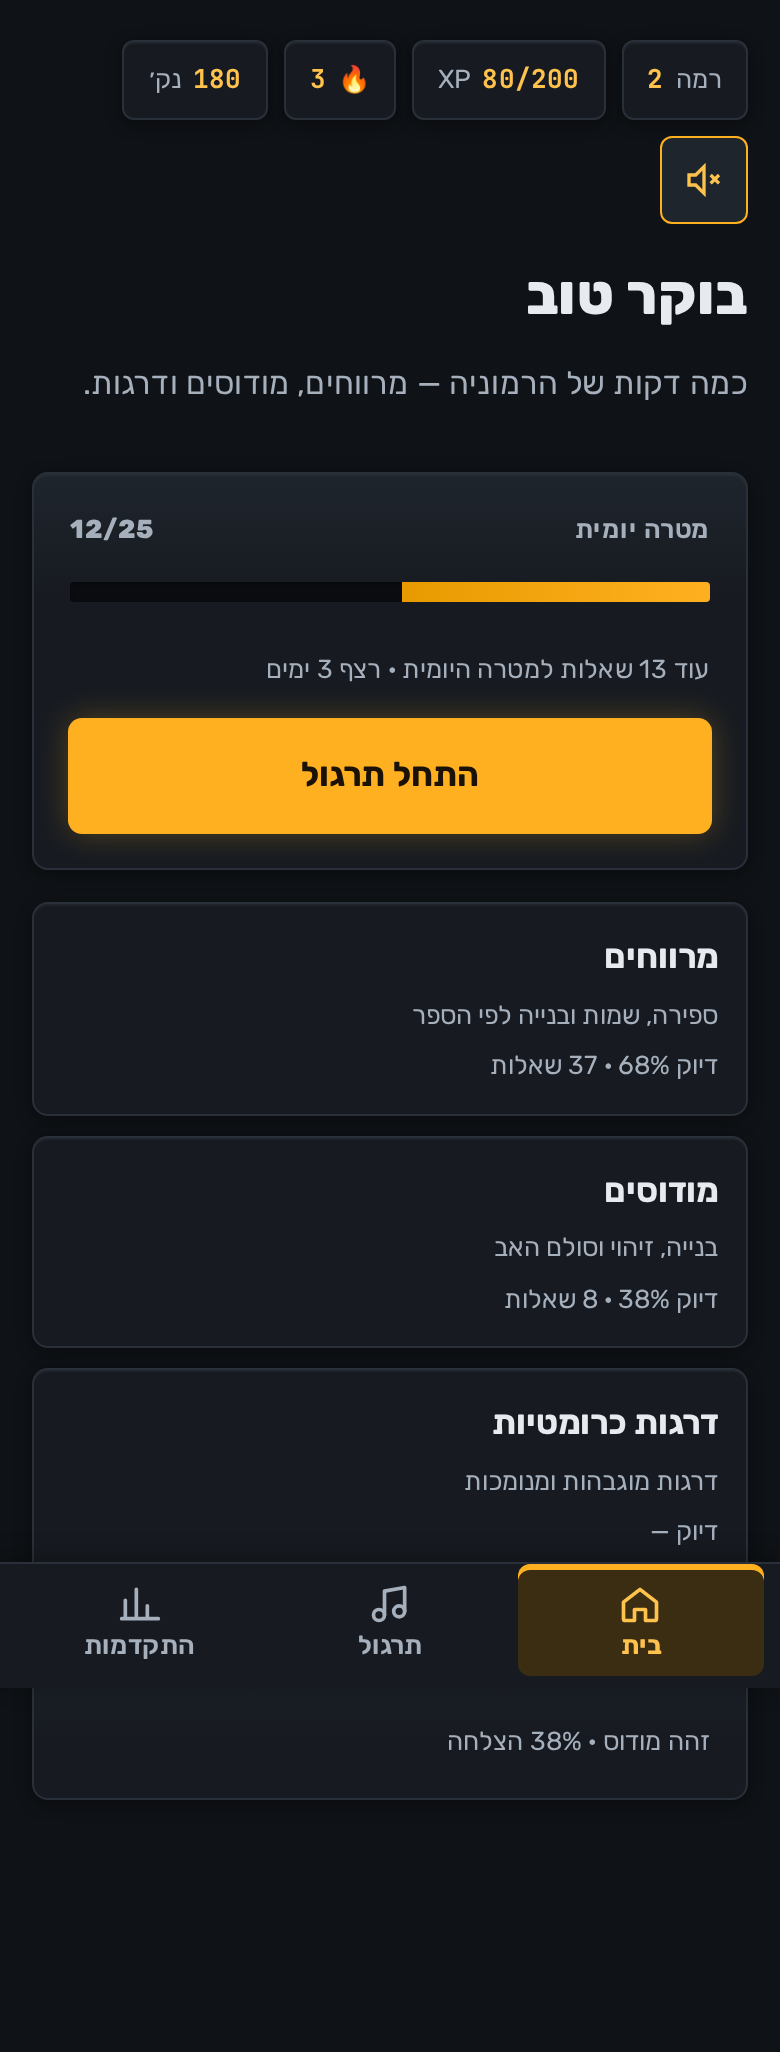
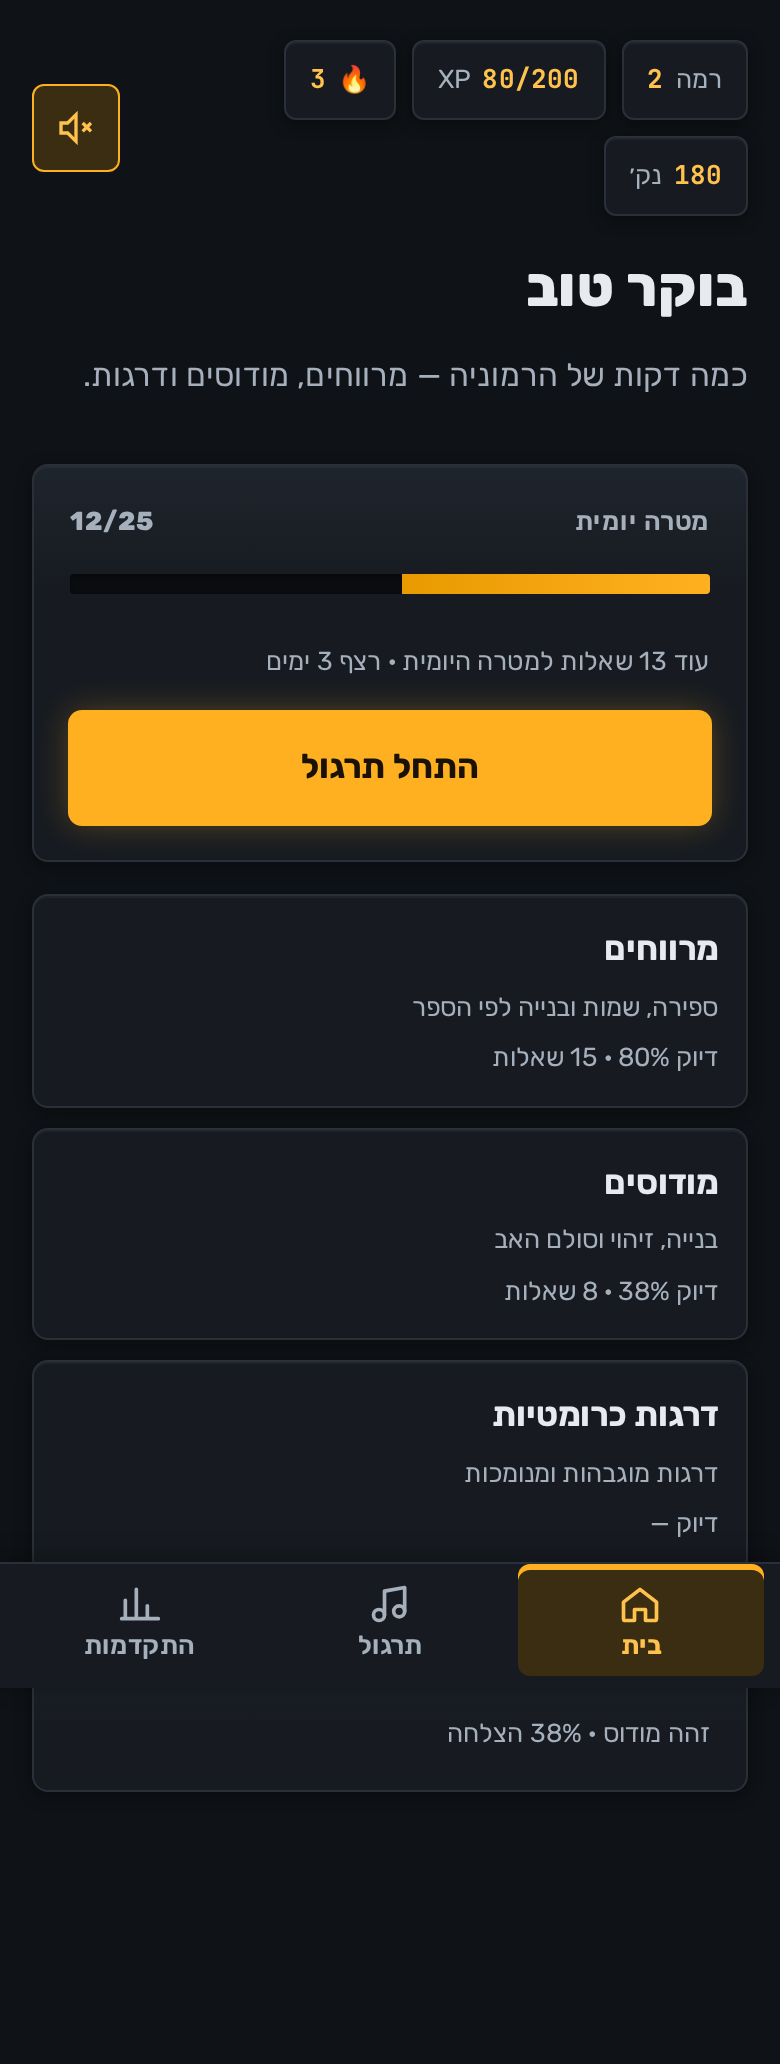
Sync Harmona XP/streak across devices; fix confetti and nav
Add merge-safe Firestore game fields (points, streak, days, log),
update rules, clear celebrations on route change, tidy mute/HUD and
fixed bottom nav. Client falls back to classic fields if rules lag.

diff --git a/index.html b/index.html
@@ -522,14 +522,16 @@ td.num, td:has(.n) {
 }
 
 /* ---- Harmona game layer (console dark) ---- */
-.app-shell { min-height: 100vh; padding-bottom: calc(78px + env(safe-area-inset-bottom, 0px)); }
+.app-shell { min-height: 100vh; padding-bottom: calc(88px + env(safe-area-inset-bottom, 0px)); box-sizing: border-box; }
 .screen[hidden] { display: none !important; }
 .side {
-  position: fixed; inset: auto 0 0 0; z-index: 40;
+  position: fixed; left: 0; right: 0; bottom: 0; z-index: 40;
   display: flex; flex-direction: column; align-items: stretch;
   padding: 0 8px calc(6px + env(safe-area-inset-bottom, 0px));
   background: var(--card); border-top: 1px solid var(--line);
   box-shadow: 0 -2px 12px rgba(0,0,0,.3);
+  /* keep above iOS home indicator / browser chrome */
+  padding-bottom: max(6px, env(safe-area-inset-bottom, 0px));
 }
 .nav {
   display: flex; justify-content: space-around; align-items: stretch; gap: 2px;
@@ -545,8 +547,10 @@ td.num, td:has(.n) {
 .nav-i.on { color: var(--accent-t); background: var(--accent-soft); font-weight: 700; box-shadow: inset 0 3px 0 var(--accent); }
 .nav-i:hover { color: var(--text); }
 .hud {
-  display: flex; flex-wrap: wrap; gap: 8px; align-items: center; margin-bottom: 4px;
+  display: flex; flex-wrap: nowrap; gap: 8px; align-items: center; justify-content: space-between;
+  margin-bottom: 4px; width: 100%;
 }
+.hud-stats { display: flex; flex-wrap: wrap; gap: 8px; align-items: center; min-width: 0; flex: 1; }
 .hud-chip {
   display: inline-flex; align-items: center; gap: 6px; min-height: 40px; padding: 4px 12px;
   border-radius: 6px; background: var(--card); border: 1px solid var(--line); font-size: 13px;
@@ -556,8 +560,9 @@ td.num, td:has(.n) {
 .mute-btn {
   width: 44px; height: 44px; border-radius: 6px; border: 1px solid var(--line2);
   background: var(--card2); color: var(--muted-t); display: grid; place-items: center; cursor: pointer;
+  flex: none; margin-inline-start: auto;
 }
-.mute-btn.on { color: var(--accent-t); border-color: var(--accent); }
+.mute-btn.on { color: var(--accent-t); border-color: var(--accent); background: var(--accent-soft); }
 .combo {
   display: flex; align-items: center; gap: 10px; align-self: center;
   min-height: 40px; padding: 4px 14px; border: 1px solid var(--line); border-radius: 6px;
@@ -1021,7 +1026,7 @@ td.num, td:has(.n) {
     const rb = $('reset');
     if (rb) rb.onclick = () => {
       $('resetwrap').innerHTML = `למחוק את כל ההתקדמות? <button class="linkbtn" id="rs-yes">כן, למחוק</button> · <button class="linkbtn" id="rs-no">ביטול</button>`;
-      $('rs-yes').onclick = () => { st.stats = {}; if (sync.onReset) sync.onReset(); save(); renderTypes(); renderStats(); };
+      $('rs-yes').onclick = () => { st.stats = {}; st.points = 0; st.streak = { current: 0, best: 0, lastDay: null, freezes: 1, freezeWeek: null }; st.days = {}; st.log = []; st.run = 0; st.session = null; if (sync.onReset) sync.onReset(); save(); renderTypes(); renderStats(); if (window.HPGame) { HPGame.refreshHud(); } };
       $('rs-no').onclick = renderStats;
     };
   }
@@ -1227,6 +1232,35 @@ function applyCloud() {
 
 function prefs() { const s = hp.st; return { topic: s.topic, type: s.type, level: s.level }; }
 
+function gamePayload() {
+  const C = window.HP && HP.core;
+  if (!C) return null;
+  return C.gameSnapshot(hp.st);
+}
+
+function mergeGameFromCloud(d) {
+  const C = window.HP && HP.core;
+  if (!C || !d) return;
+  const merged = C.mergeGame(hp.st, {
+    points: d.points,
+    streak: d.streak,
+    days: d.days,
+    log: d.log,
+  });
+  hp.st.points = merged.points;
+  hp.st.streak = merged.streak;
+  hp.st.days = merged.days;
+  hp.st.log = merged.log;
+  hp.persist();
+  if (window.HPGame) {
+    if (HPGame.refreshHud) HPGame.refreshHud();
+    if (HPGame.renderHome && location.hash.replace(/^#/, '') === 'home') HPGame.renderHome();
+    if (HPGame.renderProgress && location.hash.replace(/^#/, '') === 'progress') HPGame.renderProgress();
+  }
+}
+
+let gameSyncEnabled = true; /* flips false if rules reject game fields */
+
 function schedule(ms = 800) { clearTimeout(timer); timer = setTimeout(flush, ms); }
 function flush() {
   if (!user || !prefsLoaded) return Promise.resolve();
@@ -1237,13 +1271,33 @@ async function doFlush() {
   const uidAtStart = user.uid, genAtStart = gen;
   try {
     if (meta.reset) {
-      await setDoc(ref, { stats: {}, updated: serverTimestamp() }, { mergeFields: ['stats', 'updated'] });
+      const wipe = { stats: {}, updated: serverTimestamp() };
+      if (gameSyncEnabled) Object.assign(wipe, { points: 0, streak: { current: 0, best: 0, lastDay: null, freezes: 1, freezeWeek: null }, days: {}, log: [] });
+      try {
+        await setDoc(ref, wipe, { mergeFields: Object.keys(wipe) });
+      } catch (e) {
+        if (e && (e.code === 'permission-denied' || String(e.message || '').includes('permission'))) {
+          gameSyncEnabled = false;
+          await setDoc(ref, { stats: {}, updated: serverTimestamp() }, { mergeFields: ['stats', 'updated'] });
+        } else throw e;
+      }
       meta.reset = false; saveMeta();
     }
     inflight = JSON.parse(JSON.stringify(meta.pending));
     const stats = {};
     for (const [id, s] of Object.entries(inflight)) stats[id] = { r: increment(s.r), t: increment(s.t) };
-    await setDoc(ref, { ...prefs(), stats, updated: serverTimestamp() }, { merge: true });
+    const base = { ...prefs(), stats, updated: serverTimestamp() };
+    const game = gameSyncEnabled ? gamePayload() : null;
+    const payload = game ? { ...base, ...game } : base;
+    try {
+      await setDoc(ref, payload, { merge: true });
+    } catch (e) {
+      /* Rules not yet updated: keep syncing classic fields only, silently. */
+      if (game && e && (e.code === 'permission-denied' || String(e.message || '').includes('permission'))) {
+        gameSyncEnabled = false;
+        await setDoc(ref, base, { merge: true });
+      } else throw e;
+    }
     if (user && user.uid === uidAtStart && gen === genAtStart) { meta.pending = add(meta.pending, inflight, -1);
       for (const [id, s] of Object.entries(meta.pending)) if (!s.r && !s.t) delete meta.pending[id];
       saveMeta(); }
@@ -1295,7 +1349,11 @@ async function doSignOut() {
   await flush(); await flush();
   // progress lives in the account now; this browser goes back to a clean local state
   meta = { uid: null, pending: {}, reset: false }; saveMeta();
-  hp.st.stats = {}; hp.persist();
+  hp.st.stats = {};
+  hp.st.points = 0;
+  hp.st.streak = { current: 0, best: 0, lastDay: null, freezes: 1, freezeWeek: null };
+  hp.st.days = {}; hp.st.log = []; hp.st.run = 0; hp.st.session = null;
+  hp.persist();
   await signOut(auth);
 }
 
@@ -1314,13 +1372,19 @@ onAuthStateChanged(auth, u => {
   render();
   unsub = onSnapshot(ref, snap => {
     const d = snap.data();
-    cloud = d ? { stats: d.stats || {} } : null;
+    cloud = d ? { stats: d.stats || {}, points: d.points, streak: d.streak, days: d.days, log: d.log } : null;
     if (!prefsLoaded) {
       prefsLoaded = true;
       if (d && d.topic) { const s = hp.st; s.topic = d.topic; s.type = Object.assign({}, s.type, d.type || {}); if (d.level) s.level = d.level; }
-      applyCloud(); hp.renderAll();
+      applyCloud();
+      mergeGameFromCloud(d);
+      hp.renderAll();
       schedule(0);
-    } else { applyCloud(); hp.refresh(); }
+    } else {
+      applyCloud();
+      mergeGameFromCloud(d);
+      hp.refresh();
+    }
   }, e => console.warn('sync read failed', e));
 });
 render();

diff --git a/js/game-core.js b/js/game-core.js
@@ -172,7 +172,7 @@
       runBest: s.runBest | 0,
     };
     st.log.push(entry);
-    if (st.log.length > 100) st.log = st.log.slice(-100);
+    if (st.log.length > CORE.LOG_CAP) st.log = st.log.slice(-CORE.LOG_CAP);
     st.session = null;
     return entry;
   };
@@ -192,6 +192,91 @@
     const goal = CORE.POINTS.dailyGoal;
     return { answered: d.answered | 0, correct: d.correct | 0, points: d.points | 0, goal: goal, done: (d.answered | 0) >= goal };
   };
+
+
+  CORE.LOG_CAP = 40;
+  CORE.DAYS_CAP = 60; /* keep last ~2 months of day rows */
+
+  CORE.mergeStreak = function (a, b) {
+    a = CORE.normStreak(a); b = CORE.normStreak(b);
+    const out = CORE.normStreak(null);
+    out.best = Math.max(a.best, b.best);
+    /* prefer the side that practiced more recently */
+    if (!a.lastDay) return Object.assign(out, { current: b.current, lastDay: b.lastDay, freezes: b.freezes, freezeWeek: b.freezeWeek });
+    if (!b.lastDay) return Object.assign(out, { current: a.current, lastDay: a.lastDay, freezes: a.freezes, freezeWeek: a.freezeWeek });
+    const cmp = CORE.dayDiff(a.lastDay, b.lastDay);
+    const newer = cmp > 0 ? b : cmp < 0 ? a : (a.current >= b.current ? a : b);
+    const older = newer === a ? b : a;
+    out.current = newer.current;
+    out.lastDay = newer.lastDay;
+    out.freezes = Math.max(a.freezes, b.freezes);
+    out.freezeWeek = newer.freezeWeek || older.freezeWeek;
+    if (out.current > out.best) out.best = out.current;
+    return out;
+  };
+
+  CORE.mergeDays = function (a, b) {
+    const out = {};
+    const keys = new Set([].concat(Object.keys(a || {}), Object.keys(b || {})));
+    keys.forEach(function (k) {
+      const x = (a && a[k]) || {}, y = (b && b[k]) || {};
+      out[k] = {
+        answered: Math.max(x.answered | 0, y.answered | 0),
+        correct: Math.max(x.correct | 0, y.correct | 0),
+        points: Math.max(x.points | 0, y.points | 0),
+      };
+    });
+    /* cap by newest ymd */
+    const sorted = Object.keys(out).sort();
+    if (sorted.length > CORE.DAYS_CAP) {
+      sorted.slice(0, sorted.length - CORE.DAYS_CAP).forEach(function (k) { delete out[k]; });
+    }
+    return out;
+  };
+
+  CORE.mergeLog = function (a, b) {
+    const map = new Map();
+    function key(e) { return String(e.ts) + '|' + (e.topic || '') + '|' + (e.n | 0) + '|' + (e.ok | 0); }
+    [].concat(a || [], b || []).forEach(function (e) {
+      if (!e || e.ts == null) return;
+      const k = key(e);
+      const prev = map.get(k);
+      if (!prev || (e.points | 0) > (prev.points | 0)) map.set(k, {
+        ts: e.ts, topic: e.topic, n: e.n | 0, ok: e.ok | 0,
+        points: e.points | 0, bonus: e.bonus | 0, runBest: e.runBest | 0,
+      });
+    });
+    return Array.from(map.values()).sort(function (x, y) { return x.ts - y.ts; }).slice(-CORE.LOG_CAP);
+  };
+
+  /* Merge cloud game snapshot into local state. Never decreases points / best streak. */
+  CORE.mergeGame = function (local, cloud) {
+    const L = CORE.migrateState(local || {});
+    if (!cloud) return L;
+    L.points = Math.max(L.points | 0, cloud.points | 0);
+    L.streak = CORE.mergeStreak(L.streak, cloud.streak);
+    L.days = CORE.mergeDays(L.days, cloud.days);
+    L.log = CORE.mergeLog(L.log, cloud.log);
+    return L;
+  };
+
+  /* Snapshot of syncable game fields (small). */
+  CORE.gameSnapshot = function (st) {
+    const s = CORE.migrateState(st || {});
+    return {
+      points: s.points | 0,
+      streak: {
+        current: s.streak.current | 0,
+        best: s.streak.best | 0,
+        lastDay: s.streak.lastDay || null,
+        freezes: s.streak.freezes | 0,
+        freezeWeek: s.streak.freezeWeek || null,
+      },
+      days: CORE.mergeDays(s.days, {}),
+      log: CORE.mergeLog(s.log, []),
+    };
+  };
+
 
   if (typeof module !== 'undefined' && module.exports) module.exports = CORE;
 })(typeof window !== 'undefined' ? window : globalThis);

diff --git a/tests/game-sync.test.js b/tests/game-sync.test.js
@@ -1,0 +1,72 @@
+const C = require('../js/game-core.js');
+let fails = 0;
+function ok(cond, msg) { if (cond) console.log('ok  ', msg); else { console.log('FAIL', msg); fails++; } }
+
+/* points: take max */
+{
+  const m = C.mergeGame({ points: 50, stats: {} }, { points: 80 });
+  ok(m.points === 80, 'points max cloud');
+  const m2 = C.mergeGame({ points: 120, stats: {} }, { points: 80 });
+  ok(m2.points === 120, 'points max local');
+}
+
+/* streak: newer lastDay wins current; best is max */
+{
+  const m = C.mergeGame(
+    { streak: { current: 2, best: 4, lastDay: '2026-11-07', freezes: 0, freezeWeek: '2026-W45' }, stats: {} },
+    { streak: { current: 5, best: 5, lastDay: '2026-11-09', freezes: 1, freezeWeek: '2026-W46' } }
+  );
+  ok(m.streak.current === 5 && m.streak.lastDay === '2026-11-09', 'streak prefers newer day');
+  ok(m.streak.best === 5, 'streak best is max');
+  ok(m.streak.freezes === 1, 'freezes max');
+}
+
+/* days: per-day max union */
+{
+  const m = C.mergeGame(
+    { days: { '2026-11-08': { answered: 10, correct: 7, points: 70 }, '2026-11-09': { answered: 3, correct: 2, points: 20 } }, stats: {} },
+    { days: { '2026-11-09': { answered: 12, correct: 9, points: 100 }, '2026-11-07': { answered: 5, correct: 5, points: 50 } } }
+  );
+  ok(m.days['2026-11-09'].answered === 12 && m.days['2026-11-09'].correct === 9, 'day max answered/correct');
+  ok(m.days['2026-11-08'].answered === 10, 'keeps local-only day');
+  ok(m.days['2026-11-07'].answered === 5, 'keeps cloud-only day');
+}
+
+/* log: union by identity, capped */
+{
+  const a = [{ ts: 1, topic: 'intervals', n: 10, ok: 8, points: 100, bonus: 20, runBest: 3 }];
+  const b = [
+    { ts: 1, topic: 'intervals', n: 10, ok: 8, points: 100, bonus: 20, runBest: 3 },
+    { ts: 2, topic: 'modes', n: 10, ok: 7, points: 90, bonus: 20, runBest: 2 },
+  ];
+  const m = C.mergeGame({ log: a, stats: {} }, { log: b });
+  ok(m.log.length === 2, 'log dedupes identical entries');
+  ok(m.log[1].topic === 'modes', 'log keeps cloud entry');
+}
+
+/* snapshot shape */
+{
+  const snap = C.gameSnapshot({
+    points: 42,
+    streak: { current: 1, best: 2, lastDay: '2026-11-09', freezes: 1, freezeWeek: '2026-W46' },
+    days: { '2026-11-09': { answered: 4, correct: 3, points: 30 } },
+    log: [{ ts: 9, topic: 'intervals', n: 10, ok: 9, points: 110, bonus: 20, runBest: 4 }],
+    mute: true, run: 7, session: { n: 3 },
+    stats: { 'iv-count': { r: 1, t: 1 } },
+  });
+  ok(snap.points === 42 && snap.streak.best === 2, 'snapshot points/streak');
+  ok(snap.days['2026-11-09'].answered === 4, 'snapshot days');
+  ok(snap.log.length === 1 && !('mute' in snap) && !('run' in snap), 'snapshot omits device-only fields');
+}
+
+/* never lose legacy stats during migrate+merge */
+{
+  const m = C.mergeGame(
+    { stats: { 'iv-count': { r: 3, t: 5 } }, points: 10 },
+    { points: 10, streak: { current: 0, best: 0, lastDay: null, freezes: 1 } }
+  );
+  ok(m.stats['iv-count'].t === 5, 'stats preserved through mergeGame');
+}
+
+if (fails) { console.error(fails + ' failed'); process.exit(1); }
+console.log('\ngame-sync checks passed');

diff --git a/js/game-ui.js b/js/game-ui.js
@@ -21,6 +21,7 @@
 
   G.route = function (name) {
     routeName = name;
+    G.clearCelebrations();
     ['home', 'practice', 'progress', 'summary'].forEach(function (id) {
       const el = $('screen-' + id);
       if (el) el.hidden = id !== name;
@@ -44,10 +45,12 @@
     const streak = C.effectiveStreak(s.streak, C.today());
     const mute = !!s.mute;
     return (
-      '<span class="hud-chip">רמה <b>' + xp.level + '</b></span>' +
-      '<span class="hud-chip"><b dir="ltr">' + xp.xp + '/' + xp.to + '</b> XP</span>' +
-      '<span class="hud-chip">🔥 <b>' + streak + '</b></span>' +
-      '<span class="hud-chip"><b>' + (s.points | 0) + '</b> נק׳</span>' +
+      '<div class="hud-stats">' +
+        '<span class="hud-chip">רמה <b>' + xp.level + '</b></span>' +
+        '<span class="hud-chip"><b dir="ltr">' + xp.xp + '/' + xp.to + '</b> XP</span>' +
+        '<span class="hud-chip">🔥 <b>' + streak + '</b></span>' +
+        '<span class="hud-chip"><b>' + (s.points | 0) + '</b> נק׳</span>' +
+      '</div>' +
       '<button type="button" class="mute-btn' + (mute ? ' on' : '') + '" id="muteBtn" aria-label="' + (mute ? 'הפעל צלילים' : 'השתק') + '" title="צלילים">' +
         (mute
           ? '<svg viewBox="0 0 24 24" width="20" height="20" fill="none" stroke="currentColor" stroke-width="2"><path d="M3 9v6h4l5 5V4L7 9H3z"/><path d="M16 9l5 5M21 9l-5 5"/></svg>'
@@ -232,7 +235,13 @@
     G.route('summary');
   };
 
+  let celebTimer = null;
+  G.clearCelebrations = function () {
+    document.querySelectorAll('.celeb').forEach(function (el) { el.remove(); });
+    if (celebTimer) { clearTimeout(celebTimer); celebTimer = null; }
+  };
   function celebrate() {
+    G.clearCelebrations();
     if (window.matchMedia && matchMedia('(prefers-reduced-motion: reduce)').matches) return;
     const layer = document.createElement('div');
     layer.className = 'celeb'; layer.setAttribute('aria-hidden', 'true');
@@ -244,7 +253,7 @@
       layer.appendChild(d);
     }
     document.body.appendChild(layer);
-    setTimeout(function () { layer.remove(); }, 1400);
+    celebTimer = setTimeout(function () { G.clearCelebrations(); }, 1200);
   }
   function softCelebrate() { /* combo glow only via refreshHud */ }
 
